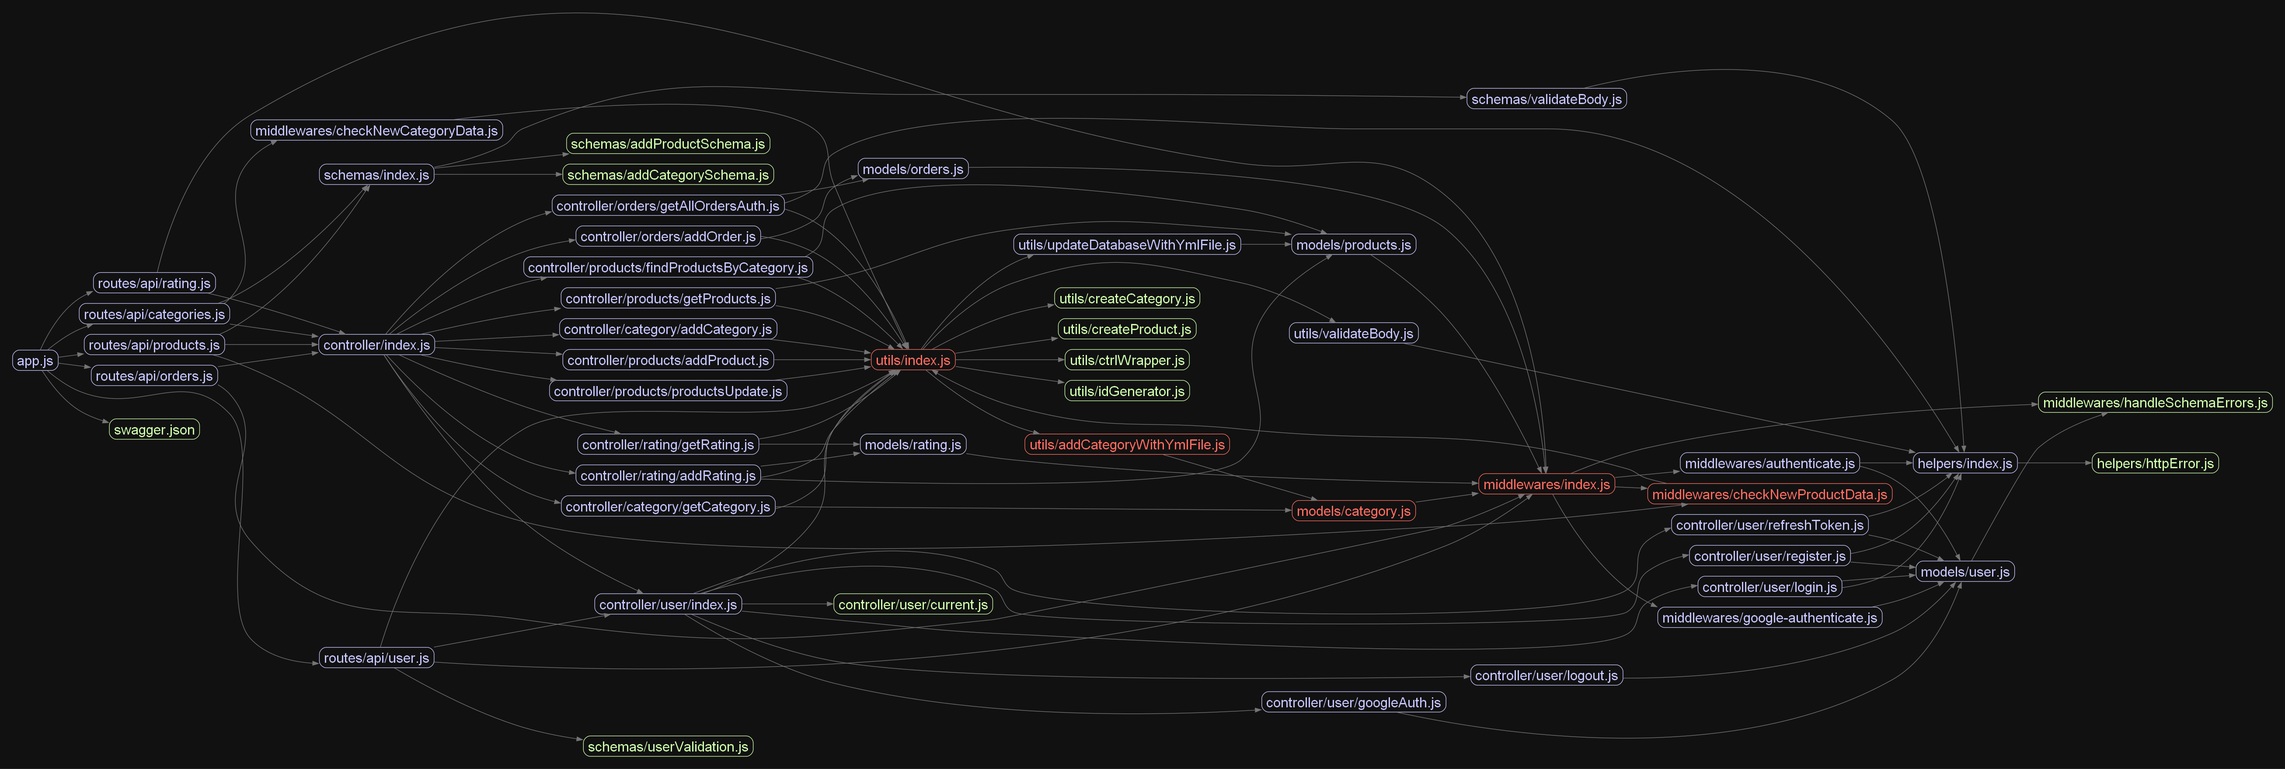
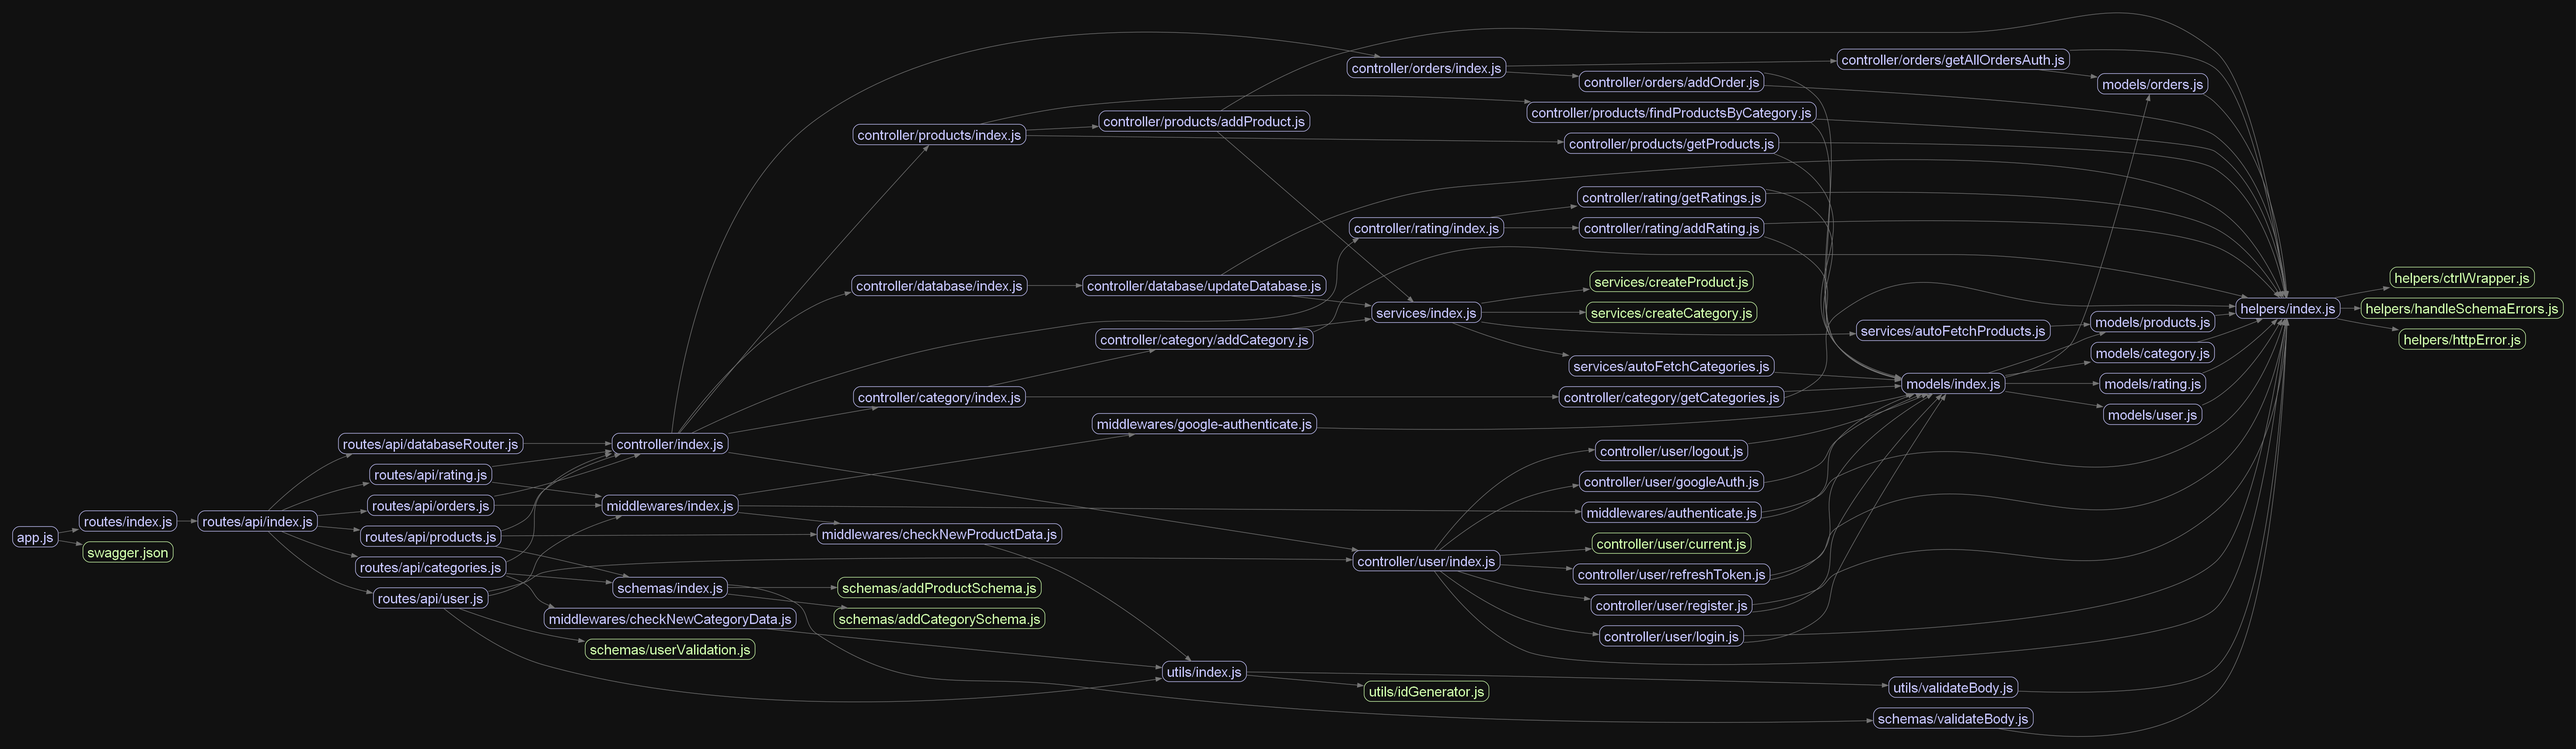
structure is edited

diff --git a/controller/index.js b/controller/index.js
@@ -1,14 +1,19 @@
-const { addOrder } = require("./orders/addOrder");
-const { getAllOrdersAuth } = require("./orders/getAllOrdersAuth");
+// додавання і отримання замовлення
+const { addOrder, getAllOrdersAuth } = require("./orders");
+// додавання і отримання категорій
+const { getCategories, addCategory } = require("./category");
+// додавання товару, отримання всіх товарів, пошук товару за категорією
+const {
+  addProduct,
+  findProductsByCategory,
+  getProducts,
+} = require("./products");
+// реєстрація, логінізація, вихід з логіну, оновлення токена, поточний користувач
 const { current, login, logout, register, refreshToken } = require("./user");
-const { updateDatabase } = require("./products/productsUpdate");
-const { getProducts } = require("./products/getProducts");
-const { findProductsByCategory } = require("./products/findProductsByCategory");
-const { getCategory } = require("./category/getCategory");
-const { addRating } = require("./rating/addRating");
-const { getRatings } = require("./rating/getRating");
-const { addProduct } = require("./products/addProduct");
-const { addCategory } = require("./category/addCategory");
+// додати рейтинг товару, отримати рейтинги всіх товарів
+const { addRating, getRatings } = require("./rating");
+
+const { updateDatabase } = require("./database");
 
 module.exports = {
   getProducts,
@@ -20,10 +25,10 @@ module.exports = {
   refreshToken,
   addOrder,
   getAllOrdersAuth,
-  updateDatabase,
-  getCategory,
+  getCategories,
   addRating,
   getRatings,
   addProduct,
   addCategory,
+  updateDatabase,
 };

diff --git a/routes/api/user.js b/routes/api/user.js
@@ -1,5 +1,5 @@
 const express = require("express");
-const router = express.Router();
+const userRouter = express.Router();
 
 const { validateBody } = require("../../utils");
 
@@ -7,29 +7,32 @@ const {
   userValidation,
   refreshValidation,
 } = require("../../schemas/userValidation");
-const controllers = require("../../controller/user");
+const {
+  googleAuth,
+  refreshToken,
+  register,
+  login,
+  current,
+  logout,
+} = require("../../controller/user");
 const { authenticate, passport } = require("../../middlewares");
 
-router.get(
+userRouter.get(
   "/google",
   passport.authenticate("google", { scope: ["email", "profile"] })
 );
 
-router.get(
+userRouter.get(
   "/google/callback",
   passport.authenticate("google", { session: false }),
-  controllers.googleAuth
+  googleAuth
 );
 
-router.post(
-  "/refresh",
-  validateBody(refreshValidation),
-  controllers.refreshToken
-);
+userRouter.post("/refresh", validateBody(refreshValidation), refreshToken);
 
-router.post("/register", validateBody(userValidation), controllers.register);
-router.post("/login", validateBody(userValidation), controllers.login);
-router.get("/current", authenticate, controllers.current);
-router.post("/logout", authenticate, controllers.logout);
+userRouter.post("/register", validateBody(userValidation), register);
+userRouter.post("/login", validateBody(userValidation), login);
+userRouter.get("/current", authenticate, current);
+userRouter.post("/logout", authenticate, logout);
 
-module.exports = router;
+module.exports = { userRouter };

diff --git a/app.js b/app.js
@@ -5,11 +5,14 @@ const swaggerDocument = require("./swagger.json");
 const logger = require("morgan");
 const cors = require("cors");
 
-const productRouter = require("./routes/api/products");
-const userRouter = require("./routes/api/user");
-const ordersRouter = require("./routes/api/orders");
-const categoriesRouter = require("./routes/api/categories");
-const ratingRouter = require("./routes/api/rating");
+const {
+  databaseRouter,
+  categoriesRouter,
+  ordersRouter,
+  productsRouter,
+  ratingRouter,
+  userRouter,
+} = require("./routes");
 
 const app = express();
 
@@ -20,11 +23,12 @@ app.use(cors());
 app.use(express.json());
 
 app.use("/api-docs", swaggerUi.serve, swaggerUi.setup(swaggerDocument));
-app.use("/api/products", productRouter);
+app.use("/api/products", productsRouter);
 app.use("/api/user", userRouter);
 app.use("/api/orders", ordersRouter);
 app.use("/api/categories", categoriesRouter);
 app.use("/api/ratings", ratingRouter);
+app.use("/api/update-database", databaseRouter);
 
 app.use((req, res) => {
   res.status(404).json({ message: "Not found" });

diff --git a/services/autoFetchProducts.js b/services/autoFetchProducts.js
@@ -72,7 +72,7 @@ async function updateProduct(offerData) {
 
 let initialProductCount = 0; // Початкова кількість продуктів
 
-async function updateDatabaseWithYmlFile(url) {
+async function autoFetchProducts(url) {
   try {
     const response = await axios.get(url);
     const xml = response.data;
@@ -147,7 +147,7 @@ async function updateDatabaseWithYmlFile(url) {
 
 // Оновлювати базу даних за вказаним URL
 async function updateDatabase() {
-  await updateDatabaseWithYmlFile(ymlFilePath);
+  await autoFetchProducts(ymlFilePath);
 }
 
 // Оновлювати базу даних за вказаним URL тільки якщо є зміни в XML
@@ -159,4 +159,4 @@ function removeHtmlTags(html) {
   return html.replace(/<\/?div>/g, "");
 }
 
-module.exports = updateDatabaseWithYmlFile;
+module.exports = { autoFetchProducts };

diff --git a/routes/api/products.js b/routes/api/products.js
@@ -1,25 +1,24 @@
 const express = require("express");
-const router = express.Router();
+const productsRouter = express.Router();
 
 const {
   getProducts,
   findProductsByCategory,
-  updateDatabase,
   addProduct,
 } = require("../../controller");
+
 const {
   checkNewProductData,
 } = require("../../middlewares/checkNewProductData");
 const { addProductSchema, validateBody } = require("../../schemas");
 
-router.get("/", getProducts);
-router.get("/:categoryId", findProductsByCategory);
-router.post("/update-database", updateDatabase);
-router.post(
+productsRouter.get("/", getProducts);
+productsRouter.get("/:categoryId", findProductsByCategory);
+productsRouter.post(
   "/add-product",
   checkNewProductData,
   validateBody(addProductSchema),
   addProduct
 );
 
-module.exports = router;
+module.exports = { productsRouter };

diff --git a/services/autoFetchCategories.js b/services/autoFetchCategories.js
@@ -1,6 +1,6 @@
 const axios = require("axios");
 const xml2js = require("xml2js");
-const { Category } = require("../models/category"); // Шлях до моделі Category
+const { Category } = require("../models"); // Шлях до моделі Category
 
 const { YML_FILE } = process.env;
 
@@ -8,7 +8,7 @@ const ymlFilePath = YML_FILE;
 
 let isUpdating = false;
 
-async function updateCategoriesFromYml(url) {
+async function autoFetchCategories(url) {
   if (isUpdating) {
     console.log("Update already in progress, skipping...");
     return;
@@ -79,7 +79,7 @@ async function updateCategoriesFromYml(url) {
 }
 
 setInterval(async () => {
-  await updateCategoriesFromYml(ymlFilePath);
+  await autoFetchCategories(ymlFilePath);
 }, 600000);
 
-module.exports = updateCategoriesFromYml;
+module.exports = { autoFetchCategories };

diff --git a/controller/database/updateDatabase.js b/controller/database/updateDatabase.js
@@ -1,0 +1,20 @@
+const { ctrlWrapper } = require("../../helpers");
+
+const { autoFetchProducts, autoFetchCategories } = require("../../services"); // Шлях до функції оновлення з YML-файла
+
+const { YML_FILE } = process.env;
+
+const ymlFilePath = YML_FILE;
+
+const updateDatabase = async (req, res) => {
+  try {
+    await autoFetchCategories(ymlFilePath);
+    await autoFetchProducts(ymlFilePath);
+    res.status(200).json({ message: "Database updated successfully" });
+  } catch (error) {
+    console.error("Error updating database:", error);
+    res.status(500).json({ message: "Error updating database" });
+  }
+};
+
+module.exports = { updateDatabase: ctrlWrapper(updateDatabase) };

diff --git a/controller/user/index.js b/controller/user/index.js
@@ -1,11 +1,11 @@
-const { ctrlWrapper } = require("../../utils");
+const { ctrlWrapper } = require("../../helpers");
 
-const current = require("./current");
-const login = require("./login");
-const logout = require("./logout");
-const register = require("./register");
-const googleAuth = require("./googleAuth");
-const refreshToken = require('./refreshToken')
+const { current } = require("./current");
+const { login } = require("./login");
+const { logout } = require("./logout");
+const { register } = require("./register");
+const { googleAuth } = require("./googleAuth");
+const { refreshToken } = require("./refreshToken");
 
 module.exports = {
   register: ctrlWrapper(register),

diff --git a/routes/api/categories.js b/routes/api/categories.js
@@ -1,13 +1,13 @@
 const express = require("express");
 const categoriesRouter = express.Router();
 
-const { getCategory, addCategory } = require("../../controller");
+const { getCategories, addCategory } = require("../../controller");
 const {
   checkNewCategoryData,
 } = require("../../middlewares/checkNewCategoryData");
 const { addCategorySchema, validateBody } = require("../../schemas");
 
-categoriesRouter.get("/", getCategory);
+categoriesRouter.get("/", getCategories);
 categoriesRouter.post(
   "/add-category",
   checkNewCategoryData,
@@ -15,4 +15,4 @@ categoriesRouter.post(
   addCategory
 );
 
-module.exports = categoriesRouter;
+module.exports = { categoriesRouter };

diff --git a/controller/rating/addRating.js b/controller/rating/addRating.js
@@ -1,7 +1,6 @@
-const { Products } = require("../../models/products");
-const { Rating } = require("../../models/rating");
-const { ctrlWrapper } = require("../../utils");
-// const mongoose = require("mongoose");
+const { Products } = require("../../models");
+const { Rating } = require("../../models");
+const { ctrlWrapper } = require("../../helpers");
 
 const addRating = async (req, res) => {
   const userId = req.user.id; // Припустимо, що у вас є механізм авторизації та req.user містить інформацію про користувача

diff --git a/controller/category/getCategories.js b/controller/category/getCategories.js
@@ -1,7 +1,7 @@
-const { Category } = require("../../models/category");
-const { ctrlWrapper } = require("../../utils");
+const { Category } = require("../../models");
+const { ctrlWrapper } = require("../../helpers");
 
-const getCategory = async (req, res) => {
+const getCategories = async (req, res) => {
   try {
     const caregory = await Category.find({}, "-createdAt -updatedAt");
     res.json({
@@ -14,5 +14,5 @@ const getCategory = async (req, res) => {
 };
 
 module.exports = {
-  getCategory: ctrlWrapper(getCategory),
+  getCategories: ctrlWrapper(getCategories),
 };

diff --git a/utils/index.js b/utils/index.js
@@ -1,17 +1,8 @@
-const ctrlWrapper = require("./ctrlWrapper");
-const updateDatabaseWithYmlFile = require("./updateDatabaseWithYmlFile");
 const validateBody = require("./validateBody");
-const addCategoryWithYmlFile = require("./addCategoryWithYmlFile");
-const createProduct = require("./createProduct");
-const createCategory = require("./createCategory");
 const idGenerator = require("./idGenerator");
 
 module.exports = {
-  ctrlWrapper,
-  updateDatabaseWithYmlFile,
   validateBody,
-  addCategoryWithYmlFile,
-  createProduct,
-  createCategory,
+
   idGenerator,
 };
